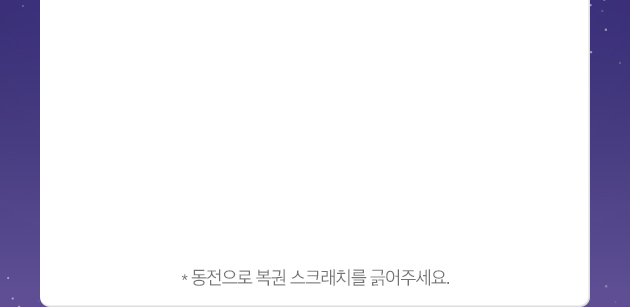
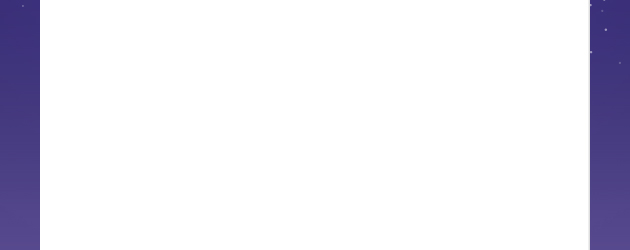
no message

Changed region(s): [[0.2714, 0.868, 0.7238, 0.952], [0.0603, 0.98, 0.9349, 1.0]]

diff --git a/sr/js/scratch.js b/sr/js/scratch.js
@@ -1,0 +1,193 @@
+var Scratch = (function() {
+    function mergeOptions(obj1, obj2) {
+        var obj3 = {};
+        for (var key in obj1) {
+            obj3[key] = obj1[key];
+        }
+        for (var key in obj2) {
+            obj3[key] = obj2[key];
+        }
+        return obj3;
+    }
+
+    function randomPoint(min, max) {
+        var random = Math.abs(Math.random() * (max - min) + min);
+        return random = parseInt(random.toFixed(0), 10);
+    }
+    var Scratch = function(options) {
+        this.cursor = {
+            png: '',
+            cur: '',
+            x: 0,
+            y: 0,
+            default: 'auto'
+        };
+        this.pointSize = {
+            x: 5,
+            y: 5
+        };
+        this.defaults = {
+            canvasId: '',
+            imageBackground: '',
+            pictureOver: '',
+            cursor: this.cursor,
+            sceneWidth: 500,
+            sceneHeight: 500,
+            radius: 40,
+            nPoints: 10,
+            pointSize: this.pointSize,
+            percent: null,
+            callback: null
+        };
+        this.options = mergeOptions(this.defaults, options);
+        this.options.cursor = mergeOptions(this.cursor, options.cursor);
+        this.options.pointSize = mergeOptions(this.pointSize, options.pointSize);
+        this.init();
+    };
+    Scratch.prototype.init = function() {
+        var _this = this;
+        this.canvas = document.getElementById(this.options.canvasId);
+        this.ctx = this.canvas.getContext('2d');
+        this.canvas.width = this.options.sceneWidth;
+        this.canvas.height = this.options.sceneHeight;
+        this.image = new Image();
+        this.image.src = this.options.pictureOver;
+        this.percent = 0;
+        this.zone = null;
+        this.pixelRatio = window.devicePixelRatio;
+        this.setBackground();
+        this.setCursor();
+        var scratchMove = function(e) {
+            e.preventDefault();
+            _this.scratch(e);
+        };
+        window.addEventListener('resize', function() {
+            _this.update();
+        });
+        window.addEventListener('scroll', function() {
+            _this.update();
+        });
+        this.canvas.addEventListener('mousedown', function(e) {
+            _this.canvas.addEventListener('mousemove', scratchMove);
+        });
+        this.canvas.addEventListener('mouseup', function _func(e) {
+            _this.canvas.removeEventListener('mousemove', scratchMove);
+            var clear = _this.clear();
+            if (clear) {
+                _this.callback(_this.options.callback);
+                _this.canvas.removeEventListener('mouseup', _func);
+            }
+        });
+        this.canvas.addEventListener('touchstart', function(e) {
+            _this.canvas.addEventListener('touchmove', scratchMove);
+        });
+        this.canvas.addEventListener('touchend', function(e) {
+            _this.canvas.removeEventListener('touchmove', scratchMove);
+            var clear = _this.clear();
+            if (clear) {
+                _this.callback(_this.options.callback);
+            }
+        });
+    };
+    Scratch.prototype.setCursor = function() {
+        var string = '';
+        if (document.documentElement.classList.contains('is-ie') || navigator.userAgent.indexOf('Trident') != -1 || navigator.userAgent.indexOf('Edge') != -1) {
+            string += 'url(' + this.options.cursor.cur + '), auto';
+        } else {
+            string += 'url(' + this.options.cursor.png + ') ' + this.options.cursor.x + ' ' + this.options.cursor.y + ', pointer';
+        }
+        this.canvas.setAttribute('style', 'cursor:' + string + ';');
+    };
+    Scratch.prototype.update = function() {
+        this.zone = this.canvas.getBoundingClientRect();
+    };
+    Scratch.prototype.fluidify = function() {
+        var imgData = this.ctx.getImageData(0, 0, this.canvas.width, this.canvas.height);
+        this.canvas.width = window.innerWidth;
+        this.canvas.height = window.innerHeight;
+        this.ctx.putImageData(imgData, 0, 0);
+    };
+    Scratch.prototype.setBackground = function() {
+        var _this = this;
+        this.image.onload = function() {
+            _this.zone = _this.canvas.getBoundingClientRect();
+            _this.ctx.drawImage(this, 0, 0);
+            var IMG = document.createElement('img');
+            IMG.classList.add('scratch_picture-under');
+            IMG.src = _this.options.imageBackground;
+            _this.canvas.parentElement.insertBefore(IMG, _this.canvas);
+        };
+    };
+    Scratch.prototype.clearPoint = function(x1, y1) {
+        var radius = this.options.radius;
+        var x = Math.random() * 2 * radius - radius;
+        var ylim = Math.sqrt(radius * radius - x * x);
+        var y = Math.random() * 2 * ylim - ylim;
+        x += radius;
+        y += radius;
+        x = parseInt(x, 10);
+        y = parseInt(y, 10);
+        return {
+            x: x + x1,
+            y: y + y1
+        }
+    };
+    Scratch.prototype.getPosition = function(e) {
+        var posX, posY;
+        switch (e.type) {
+            case 'touchmove':
+                posX = e.touches[0].clientX - this.options.radius - window.pageXOffset;
+                posY = e.touches[0].clientY - this.options.radius - window.pageYOffset;
+                break;
+            case 'mousemove':
+                posX = e.clientX - this.options.radius - window.pageXOffset;
+                posY = e.clientY - this.options.radius - window.pageYOffset;
+                break;
+        }
+        return {
+            x: posX,
+            y: posY
+        }
+    };
+    Scratch.prototype.scratch = function(e) {
+        var position = this.getPosition(e);
+        var x = position.x - this.zone.left;
+        var y = position.y - this.zone.top + window.pageYOffset;
+        var i = 0;
+        var len = this.options.nPoints;
+        for (i; i < len; i++) {
+            var points = this.clearPoint(x, y);
+            this.ctx.clearRect(points.x, points.y, this.options.pointSize.x, this.options.pointSize.y);
+        }
+        this.percent = this.getPercent();
+    };
+    Scratch.prototype.getPercent = function() {
+        var percent;
+        var counter = 0;
+        var imageData = this.ctx.getImageData(0, 0, this.canvas.width, this.canvas.height);
+        var imageDataLength = imageData.data.length;
+        for (var i = 0; i < imageDataLength; i += 4) {
+            if (imageData.data[i] === 0 && imageData.data[i + 1] === 0 && imageData.data[i + 2] === 0 && imageData.data[i + 3] === 0) {
+                counter++;
+            }
+        }
+        if (counter >= 1) {
+            percent = (counter / (this.canvas.width * this.canvas.height)) * 100;
+        } else {
+            percent = 0;
+        }
+        return percent;
+    };
+    Scratch.prototype.clear = function() {
+        if (this.percent >= this.options.percent) {
+            this.ctx.clearRect(0, 0, this.canvas.width, this.canvas.height);
+            return true;
+        }
+    };
+    Scratch.prototype.callback = function(callback) {
+        if (callback != null && this.percent >= this.options.percent) {
+            callback();
+        }
+    };
+    return Scratch;
+})();

diff --git a/sr/index.html b/sr/index.html
@@ -25,14 +25,13 @@
 		.scratch_container {
   position: relative;
   margin: 0 auto;
-  max-width: 250px;
+  max-width: 500px;
 }
 .scratch_viewport {
   position: relative;
-  width: 250px;
-  height: 250px;
   margin: 0 auto;
   z-index: 0;
+  height:250px;
 }
 .scratch_picture-under {
   position: absolute;
@@ -43,13 +42,8 @@
 }
 .scratch_container canvas {
   position: relative;
-  width: 100%;
-  height: auto;
   z-index: 1;
 }
-/*#mouse {
-	cursor:url(images/ee4486d1b3fc998e444c3b0100c73db282760eb5.png) 0 0,pointer;
-}*/
 </style>
 </head>
 <body>
@@ -64,10 +58,7 @@
 			<img src="images/front_img1.jpg" alt="2020 한정판 달력 & 다이어리증정! 행운 복권 이벤트 이벤트 기간 2019년 10월 21일 ~ 10월 31일 당첨자 발표 2019년 11월 내 당첨자 개별 연락" />
 		</div>
 		<div class="full_img">
-			<img src="images/front_img2.jpg" alt="행운 복권을 긁고 달력, 다이어리의 행운의 주인공이 되세요. 총 100분께 2020년 달력과 다이어리를 드립니다! * 동전으로 복권 스크래치를 긁어주세요." />
-		</div>
-		<div class="full_img">
-			<img src="images/front_img3.jpg" alt="" />
+			<img src="images/front_img2.jpg" alt="행운 복권을 긁고 달력, 다이어리의 행운의 주인공이 되세요. 총 100분께 2020년 달력과 다이어리를 드립니다!" />
 		</div>
 		<div class="scratch_wrap">
 			<p class="blind">행운 복권을 긁어 보세요</p>
@@ -79,19 +70,22 @@
 			</div>
 		</div>
 		<div class="full_img">
-			<img src="images/front_img4.jpg" alt="이벤트 경품 달력에는 작가가 디자인한 프랑스 감성을 담은 일러스트가 그려져 있습니다. 2020년 달력/다이어리(100명) 스타벅스 기프티콘(20명)" />
+			<img src="images/front_img4.jpg" alt="* 동전으로 복권 스크래치를 긁어주세요." />
+		</div>
+		<div class="full_img">
+			<img src="images/front_img5.jpg" alt="이벤트 경품 달력에는 작가가 디자인한 프랑스 감성을 담은 일러스트가 그려져 있습니다. 2020년 달력/다이어리(100명) 스타벅스 기프티콘(20명)" />
 		</div>
 		<div class="full_img">
 			<img src="images/event_caution.jpg" alt="꼭 확인하세요! 본 이벤트는 하루에 한 번만 응모가 가능합니다. 이벤트 당첨자 선정 및 경품 전달을 위해 요청되는 개인정보를 모두 기입해 주시기 바랍니다. 응모 시 입력하신 정보는 이벤트 경품을 배송하기 위한 용도로만 사용되며 이용목적 달성 후 1개월 이내에 복구가 불가능한 방법으로 파기 됩니다. 참여자 본인 이름, 연락처가 아닌 정보로 참여하거나, 부정확한 정보를 입력할 시 당첨이 취소 될 수 있습니다. 응모 시 입력하신 개인정보는 추후 변경이 불가합니다. 모바일 쿠폰은 유효기간 내에 사용하셔야 하며, 유효기간 종료 후 재발송은 불가 합니다. 비정상적, 불법적인 방법으로 이벤트 참여 시 당첨이 불가하며, 당첨 후에도 별도 고지 없이 당첨이 취소될 수 있습니다. 경품 내역은 경품 제공 업체의 사정상 예고 없이 변경 또는 지연 될 수 있습니다. 모바일 쿠폰 발송 관련 문의는 내일LMC (02-539-4142)로 문의 바랍니다. 이벤트 경품은 1인 1회 제공을 원칙으로 합니다." />
 		</div>
 	</div>
 </div>
-<script src="https://www.cssscript.com/demo/touch-friendly-scratch-card-pure-javascript-scratchcard/js/Scratch.js"></script>
+<script src="js/Scratch.js"></script>
 <script>
 	var scratch = new Scratch({
     canvasId: 'js-scratch-canvas',
-    imageBackground: 'images/loose.jpg',
-    pictureOver: 'images/foreground.jpg',
+    imageBackground: 'images/scratch_bg.png',
+    pictureOver: 'images/scratch_wrap.png',
     cursor: {
         png: 'images/piece.png',
         cur: 'images/piece.cur',
@@ -100,9 +94,9 @@
     },
     radius: 20,
     nPoints: 100,
-    percent:90,
+    percent:20,
     callback: function () {
-      alert('I am Callback.');
+      alert('당첨유무');
     },
     pointSize: { x: 3, y: 3}
 });

diff --git a/sr/css/layout.css b/sr/css/layout.css
@@ -3,9 +3,9 @@
 #wrap {max-width:630px;width:100%;margin:0 auto;}
 
 .full_img {position:relative;}
-/*.full_img img {max-width:100%;}*/
+.full_img img {max-width:100%;}
 
-.scratch_wrap {position:relative;}
+.scratch_wrap {position:relative;background:url(../images/front_img3.jpg) no-repeat center/cover;}
 .scratch_wrap .scratch_container {/*position:absolute;left:50%;margin-left:-250px;top:0;*/}
 
 [type="checkbox"].fancy-check {position: absolute;left: -9999px;}
